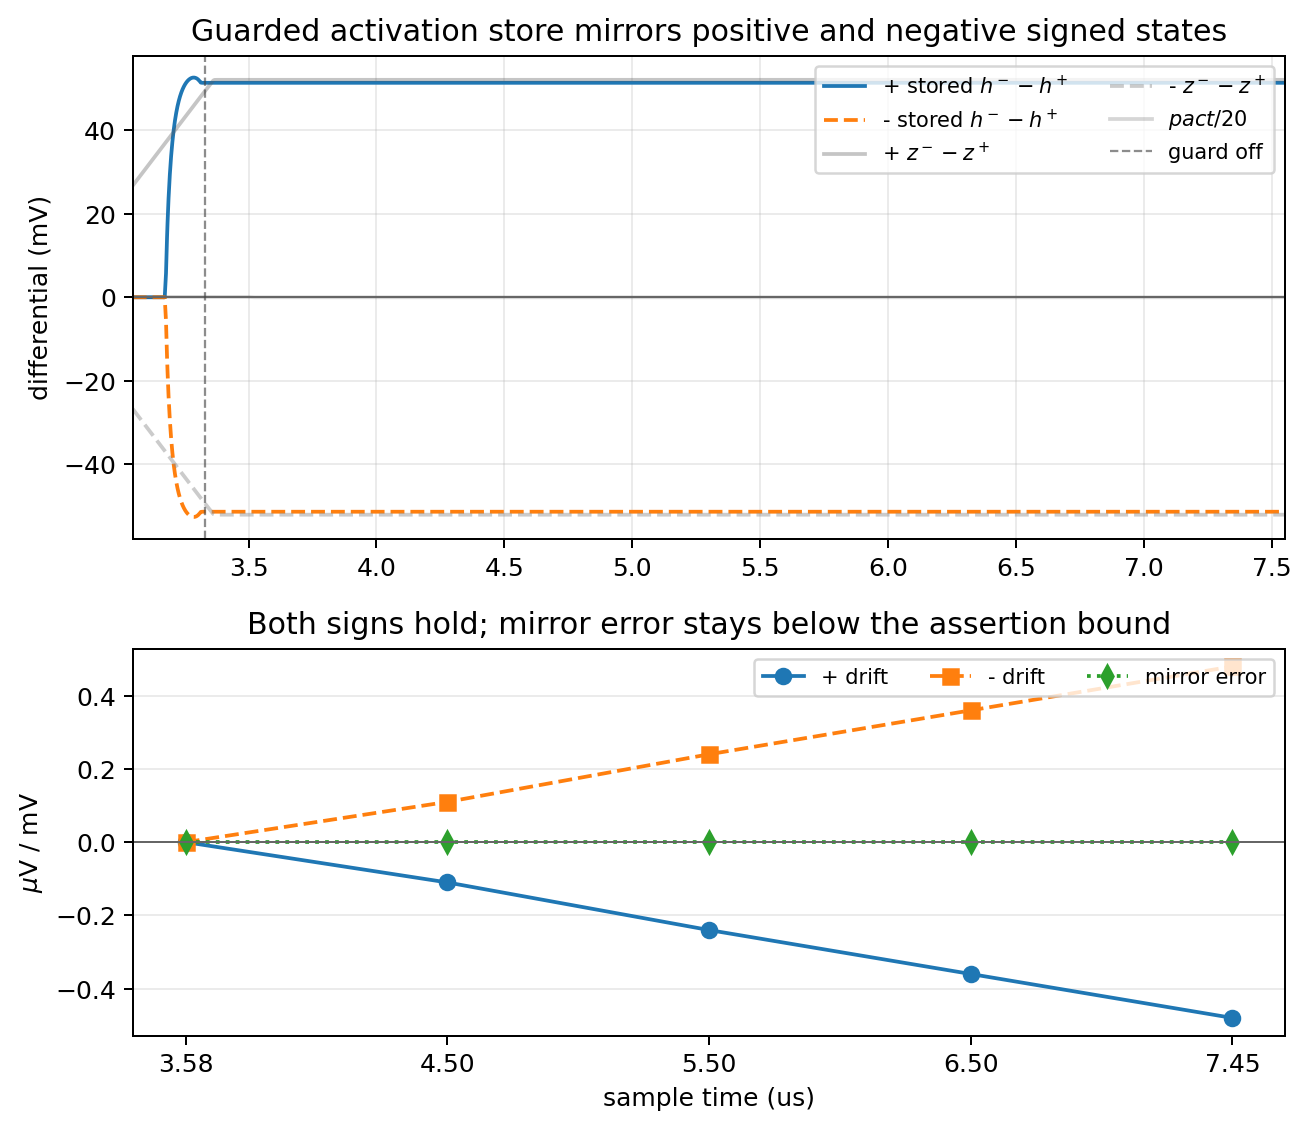
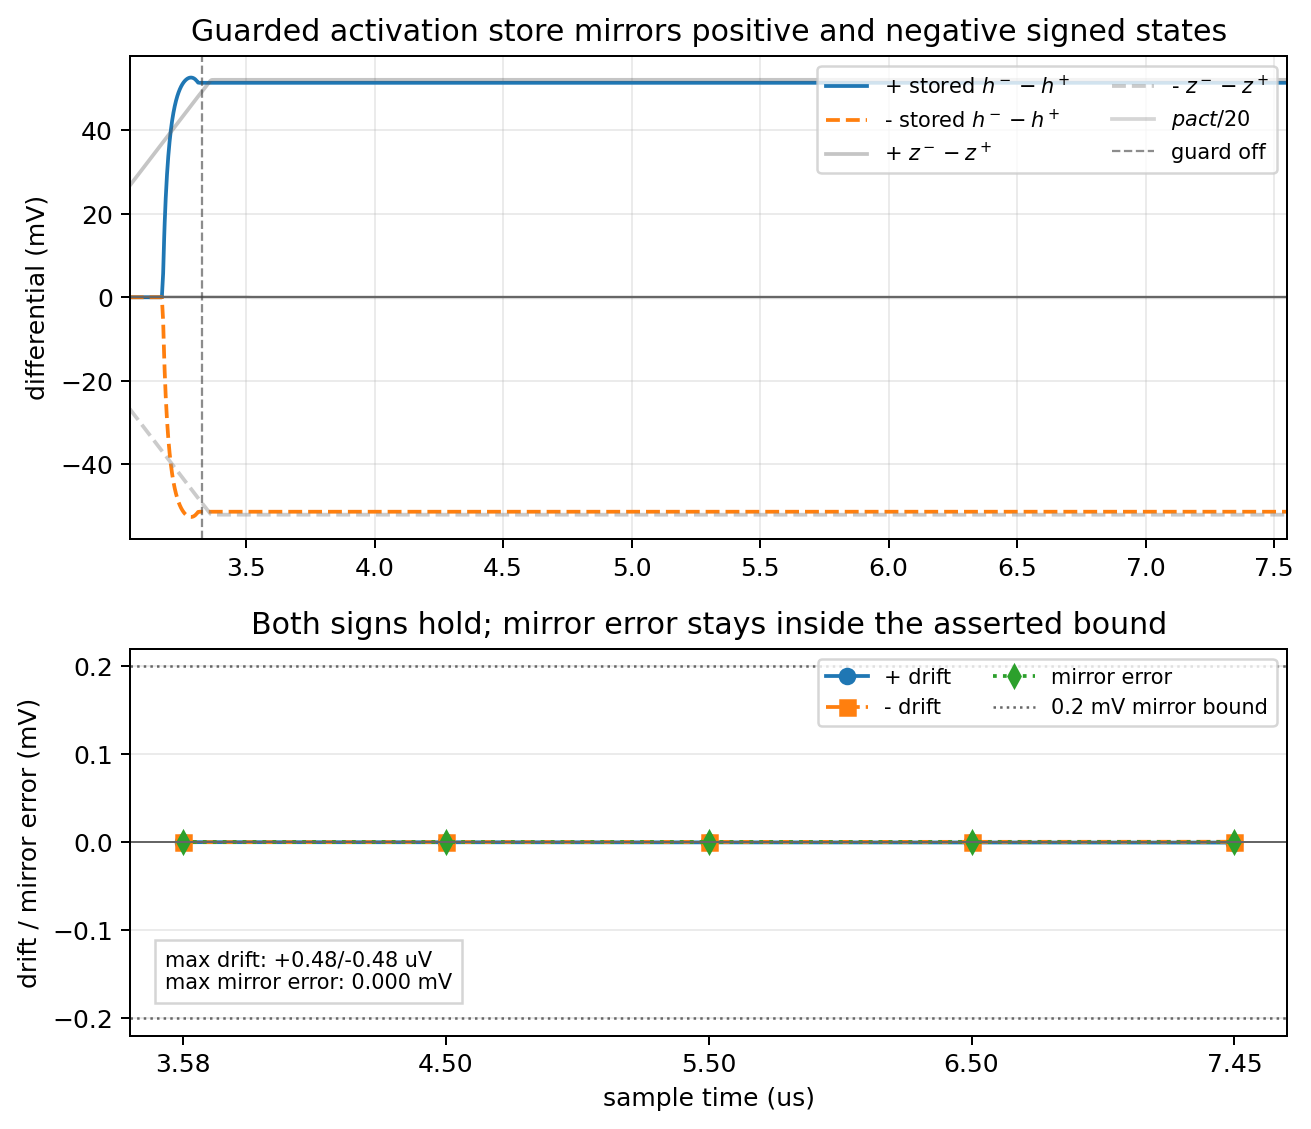
Clarify guarded signed hold plot

diff --git a/spice/run_mos_cell_characterization.py b/spice/run_mos_cell_characterization.py
@@ -13011,17 +13011,29 @@ quit
     signed_hold_axes[0].grid(True, alpha=0.25)
     signed_hold_axes[0].legend(loc="upper right", ncol=2, fontsize="small")
     signed_hold_x = np.arange(len(hold_sample_times))
-    signed_hold_axes[1].plot(signed_hold_x, 1e6 * hold_drift, "o-", label="+ drift")
-    signed_hold_axes[1].plot(signed_hold_x, 1e6 * negative_hold_drift, "s--", label="- drift")
+    signed_hold_axes[1].plot(signed_hold_x, 1e3 * hold_drift, "o-", label="+ drift")
+    signed_hold_axes[1].plot(signed_hold_x, 1e3 * negative_hold_drift, "s--", label="- drift")
     signed_hold_axes[1].plot(signed_hold_x, 1e3 * signed_hold_mirror_error, "d:", label="mirror error")
     signed_hold_axes[1].axhline(0, color="0.4", linewidth=0.8)
+    signed_hold_axes[1].axhline(0.2, color="0.4", linestyle=":", linewidth=1.0, label="0.2 mV mirror bound")
+    signed_hold_axes[1].axhline(-0.2, color="0.4", linestyle=":", linewidth=1.0)
+    signed_hold_axes[1].text(
+        0.03,
+        0.12,
+        f"max drift: +{1e6 * np.max(np.abs(hold_drift)):.2f}/"
+        f"-{1e6 * np.max(np.abs(negative_hold_drift)):.2f} uV\n"
+        f"max mirror error: {1e3 * np.max(np.abs(signed_hold_mirror_error)):.3f} mV",
+        transform=signed_hold_axes[1].transAxes,
+        fontsize="small",
+        bbox={"facecolor": "white", "alpha": 0.82, "edgecolor": "0.8"},
+    )
     signed_hold_axes[1].set_xticks(signed_hold_x)
     signed_hold_axes[1].set_xticklabels(hold_sample_labels)
     signed_hold_axes[1].set_xlabel("sample time (us)")
-    signed_hold_axes[1].set_ylabel("$\\mu$V / mV")
-    signed_hold_axes[1].set_title("Both signs hold; mirror error stays below the assertion bound")
+    signed_hold_axes[1].set_ylabel("drift / mirror error (mV)")
+    signed_hold_axes[1].set_title("Both signs hold; mirror error stays inside the asserted bound")
     signed_hold_axes[1].grid(True, axis="y", alpha=0.25)
-    signed_hold_axes[1].legend(loc="upper right", ncol=3, fontsize="small")
+    signed_hold_axes[1].legend(loc="upper right", ncol=2, fontsize="small")
     signed_hold_fig.tight_layout()
     save_plot(signed_hold_fig, "mos_hidden_writer_restored_gate_hybrid_update_forward_guard_signed_hold_ngspice")
 

diff --git a/engineering_log.md b/engineering_log.md
@@ -2,6 +2,15 @@
 
 ## 2026-05-25
 
+- Fixed the guarded signed-hold plot's mixed-unit ambiguity.  The underlying
+  ngspice assertions require positive and negative guarded activation holds to
+  mirror within \(0.2\) mV and each held sign to drift less than \(0.2\) mV;
+  the rendered `mos_hidden_writer_restored_gate_hybrid_update_forward_guard_signed_hold_ngspice`
+  plot previously mixed \(\mu\)V drift and mV mirror error on one axis without
+  drawing the bound.  The regenerated plot now uses mV consistently, draws the
+  asserted \(\pm0.2\) mV mirror bound, and annotates the measured
+  \(+0.48/-0.48\,\mu\)V maximum drift with mirror error below the displayed
+  \(0.001\) mV resolution.
 - Clarified the restored-gate sizing and stored-error-swing margins.  The
   restored-gate strength and swing decks already asserted that the selected
   weak corner must recover a \(>20\) mV net write while complement leakage
